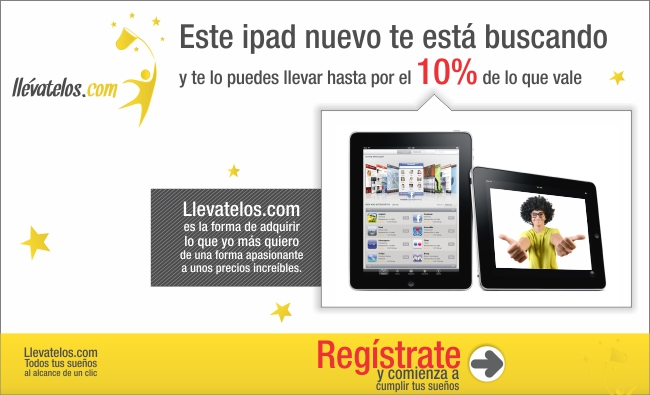
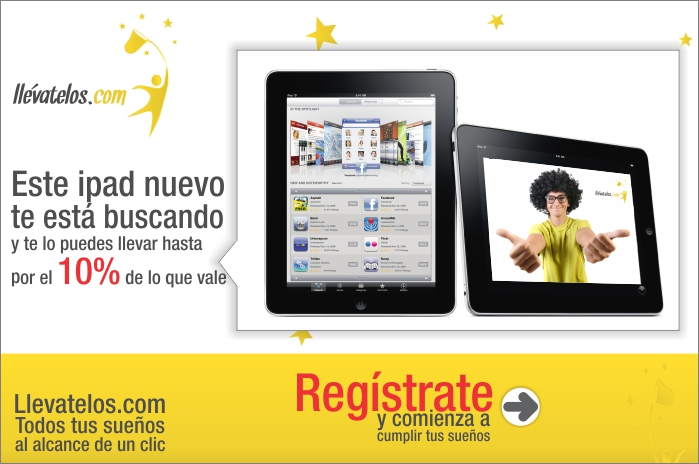
correos

diff --git a/app/webroot/css/screen.css b/app/webroot/css/screen.css
@@ -361,8 +361,9 @@ div.logueado span{
 	background: url("../img/trama-cuenta.png") repeat-x scroll 0 0 transparent;
     background-color:white;
   }
-  #banner-compra{
-  	padding:17.5px 0;
+  #banner-compra .leyenda{
+	width:150px;
+	margin: 30px 0px 0 14px;
   }
   a.registro{
   	font-weight: bold;
@@ -401,7 +402,7 @@ div.logueado span{
 	padding:10px 0;
 	margin-top:45px;
 	display:block;
-	width:120px;
+	width:116px;
 	height:10px;
 	float:right;
 	text-align:center;
@@ -812,9 +813,10 @@ div.logueado span{
 	padding:1em;
 }
 .form-container fieldset{
-	background:url("../img/trama-cuenta.png") ;
+	background:#FFDA14 ;
 	border-radius: 15px 15px 15px 15px;
 	padding:1em;
+	background: repeating-radial-gradient(circle, #FFDA14, #E2C115 50%);
 }
 .form-container .input,.form-container .submit{
 	margin-top:1em;
@@ -834,31 +836,31 @@ div.logueado span{
 	font-weight:bold;
 }
 .form-container input#UserUsername{
-	width:370px;
+	width:395px;
 }
 .form-container input#password{
-	width:343px;
+	width:374px;
 }
 .form-container input#password2{
-	width:268px;
+	width:319px;
 }
 .form-container input#UserFieldNombres{
-	width:360px;
+	width:385px;
 }
 .form-container input#UserFieldApellidos{
-	width:359px;
+	width:384px;
 }
 .form-container input#UserEmail{
-	width:288px;
+	width:331px;
 }
 .form-container input#UserEmailConfirm{
-	width:214px;
+	width:276px;
 }
 .form-container input#UserFechaNacimiento{
 	
 }
 .form-container input#UserReferidoPor{
-	width:335px;
+	width:368px;
 }
 
 
@@ -934,11 +936,14 @@ div.logueado span{
 		-webkit-box-shadow: 0 0 90px #000;	
 	
 	}
-#register-overlay{
-background:url("../img/pantalla-lightbox.jpg");
-width:650px;
-height:395px;
-}
+	#register-overlay{
+		background:url("../img/pantalla-lightbox.jpg");
+		width:699px;
+		height:464px;
+	}
+	#register-overlay input{
+		width:133px;
+	}
 	#register-overlay div.register {
 		padding:10px;
 		border:1px solid #3B5998;
@@ -1028,8 +1033,8 @@ height:395px;
 		padding-left:46px;
 		background-repeat:no-repeat;
 		background-position-x: right;
-		right: 7px;
-		bottom:0;
+		right: 8px;
+		bottom:8px;
 	}
 	#register-overlay .registrate h1{
 		padding:0;
@@ -1107,7 +1112,7 @@ height:395px;
 }
 #compra-creditos{
 	margin-left: 1em;
-	margin-top: 1em;
+	margin-top: 30px;
 }
 #right-content #vendido{
 	background-color: #EE1A24;
@@ -1167,4 +1172,43 @@ float:right;
 #contacto  input[type=submit]{
 	width:100px;
 	float:right;
+}
+.subastas-activas li{
+	position:relative;
+}
+.formulario-login-subasta{
+	position:absolute;
+	z-index:2;
+	width:100%;
+	padding:20px 0;
+	background:#F8DC38;
+	bottom:80px;
+	display:none;
+	
+}
+.formulario-login-subasta form{
+	width:80%;
+	margin: 0 auto;
+}
+.formulario-login-subasta input, .formulario-login-subasta  label{
+	clear:both;
+	float:none;
+	display:block;
+	text-align:left;
+}
+.cerrar-formulario{
+	right:5px;
+	font-size:10px;
+	color:white;
+	position:absolute;
+}
+a#resaltar-registro{
+	color:red;
+	font-size:15px;
+	cursor:pointer;
+}
+/*PAGES*/
+.pages .WYSIWYG{
+	height:580px;
+	overflow-y:auto;
 }

diff --git a/app/webroot/js/subastas.js b/app/webroot/js/subastas.js
@@ -42,10 +42,33 @@
 		});
 
 	} else {
-		$("#login-overlay").overlay().load()
+		$(".formulario-login-subasta").hide();
+		$(".formulario-login-subasta").filter("[rel='"+$(this).attr("rel")+"']").show();
 	}
 
-});
+	});
+	$(".ajax-form").submit(function(e){
+		e.preventDefault();
+		var url = $(this).attr('action');  
+		var datos=$(this).serialize();
+				jQuery.ajax({
+			url:url,
+			type: "post",
+			cache: false,
+			dataType:"json",
+			data: datos,
+			success: function(oferta) {
+				if(oferta){
+				location.reload(true);
+				}else{
+				//DATOS NO VALIDOS
+				}
+			}
+		});
+	});
+	$(".cerrar-formulario").click(function(){
+		$(this).parent().hide();
+	});
 	setInterval(function(){
 		jQuery.ajax({
 			url:server+"subastas/getStatus?ms="+new Date().getTime(),

diff --git a/app/controllers/users_controller.php b/app/controllers/users_controller.php
@@ -284,8 +284,7 @@ class UsersController extends AppController {
 				$body = array(
 					'usuario' => $this->data['User']['username'],
 					'contraseña' => $user_pass,
-					'nombres' => $this->data['UserField']['nombres'],
-					'apellidos' => $this->data['UserField']['apellidos']
+				
 				);
 				
 				// Enviar el mensaje via Mad Mimi
@@ -424,7 +423,7 @@ class UsersController extends AppController {
 	//LOGIN USER
 	function login(){
 				
-		if (!empty($this->data) && !empty($this->Auth->data['User']['username']) && !empty($this->Auth->data['User']['password'])) {
+		if (!empty($this->data) && !empty($this->Auth->data['User']['username'])) {
 
 			$user =
 				$this->User->find(
@@ -469,6 +468,56 @@ class UsersController extends AppController {
 			//$this->Session->setFlash("Ingrese su usuario/correo y contraseÃ±a");
 		}
 
+	}
+	function ajaxLogin(){
+
+				$this->Auth->data['User']['username']=$_POST["data"]["User"]["username"];
+				$this->Auth->data['User']['password']=$this->Auth->password($_POST["data"]["User"]["password"]);
+		if (!empty($this->Auth->data['User']['username']) && !empty($this->Auth->data['User']['password'])) {
+
+			$user =
+				$this->User->find(
+					'first',
+					array(
+						'conditions' => array(
+											'username' => $this->Auth->data['User']['username'],
+											'password' => $this->Auth->data['User']['password']
+										),
+						'recursive' => -1
+					)
+				);
+		
+			if (!$user) {
+				$user =
+					$this->User->find(
+						'first',
+						array(
+							'conditions' => array(
+												'email' => $this->Auth->data['User']['username'],
+												'password' => $this->Auth->data['User']['password']
+											),
+							'recursive' => -1
+						)
+					);
+			}
+			
+			if (!empty($user) && $this->Auth->login($user)) {
+
+				$userId = $this->Auth->user('id');
+				$this->set("login", true);
+					echo true;
+	
+
+			} else {
+				echo false;
+			}
+
+		} else {
+			echo false;
+		}
+		Configure::write("debug",0);
+		$this->autoRender=false;
+		exit(0);
 	}
 
 	function admin_login(){
